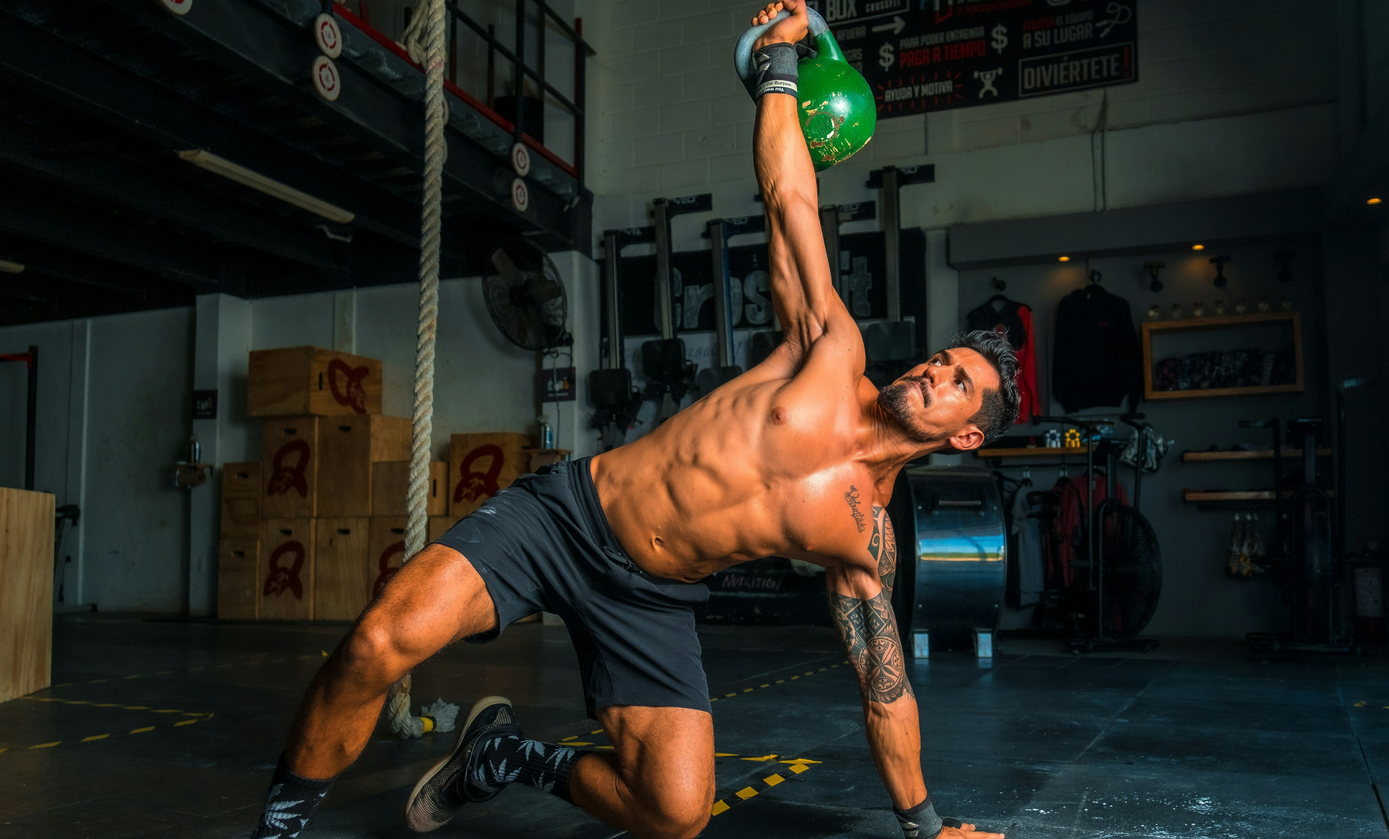
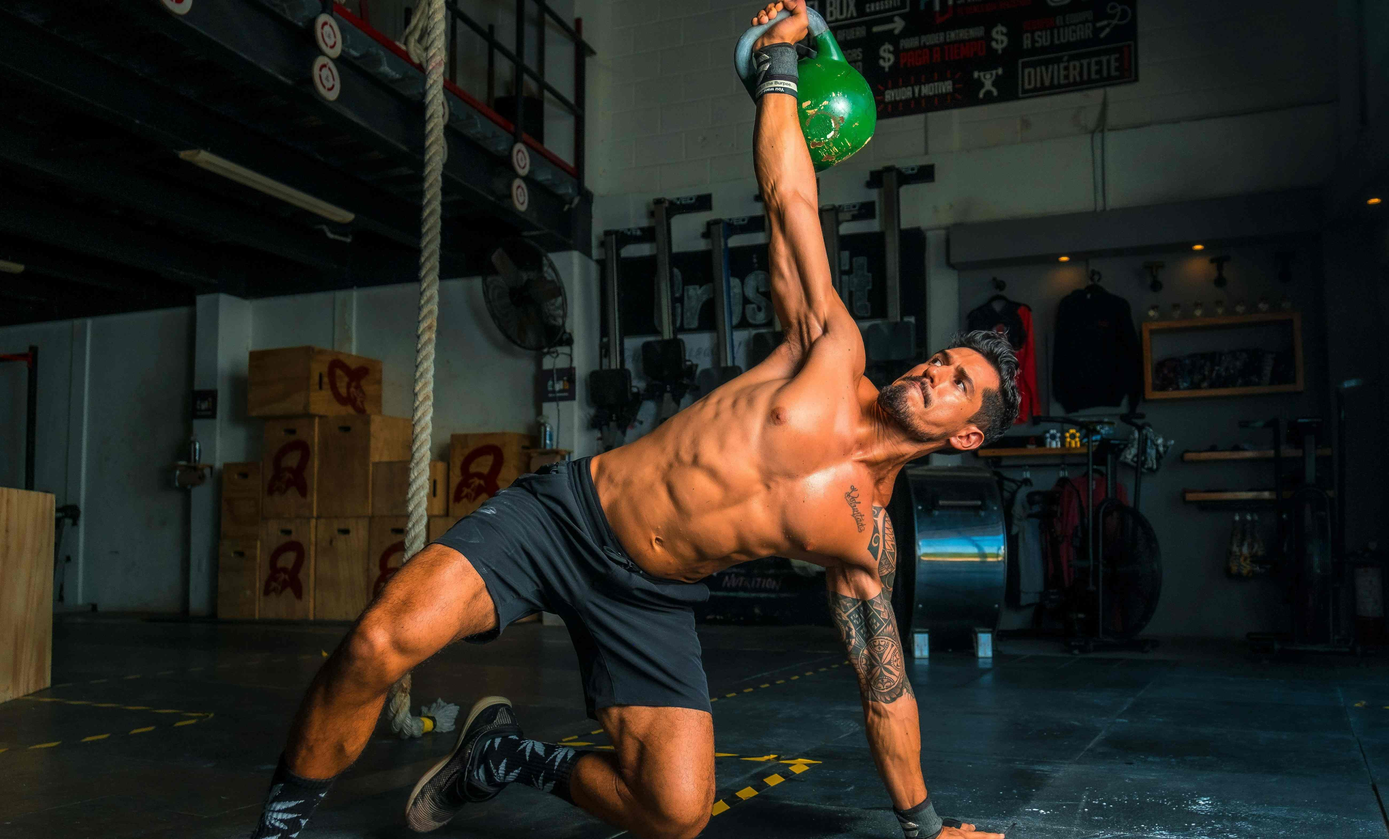
Updated Gym Section Images

diff --git a/gym.html b/gym.html
@@ -17,7 +17,7 @@
 
                 <div class="card">
                     <h2 class="card-heading">Chest</h2>
-                    <img src="gym/chest.png" alt="" class="card-image">
+                    <img src="gym/chest.jpg" alt="" class="card-image">
                     <p class="card-para">
                         "Build a powerful, sculpted chest with comprehensive workout routines designed for maximum strength"
                     </p>
